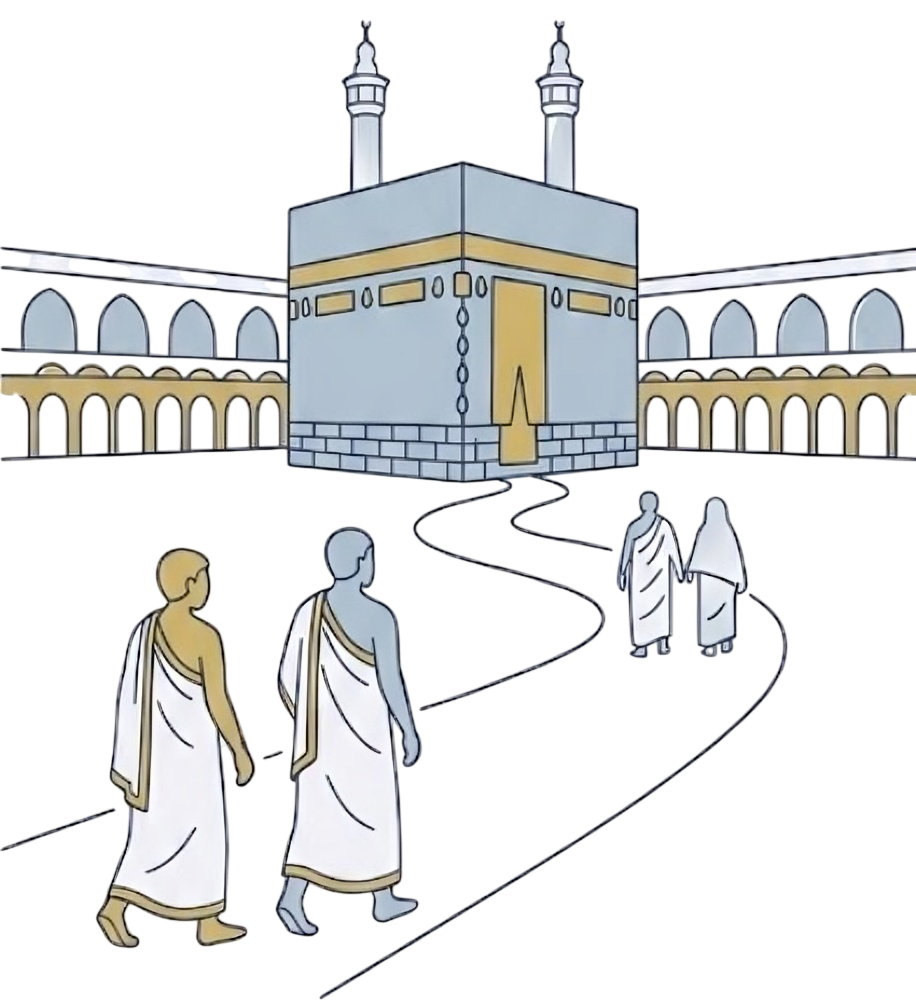
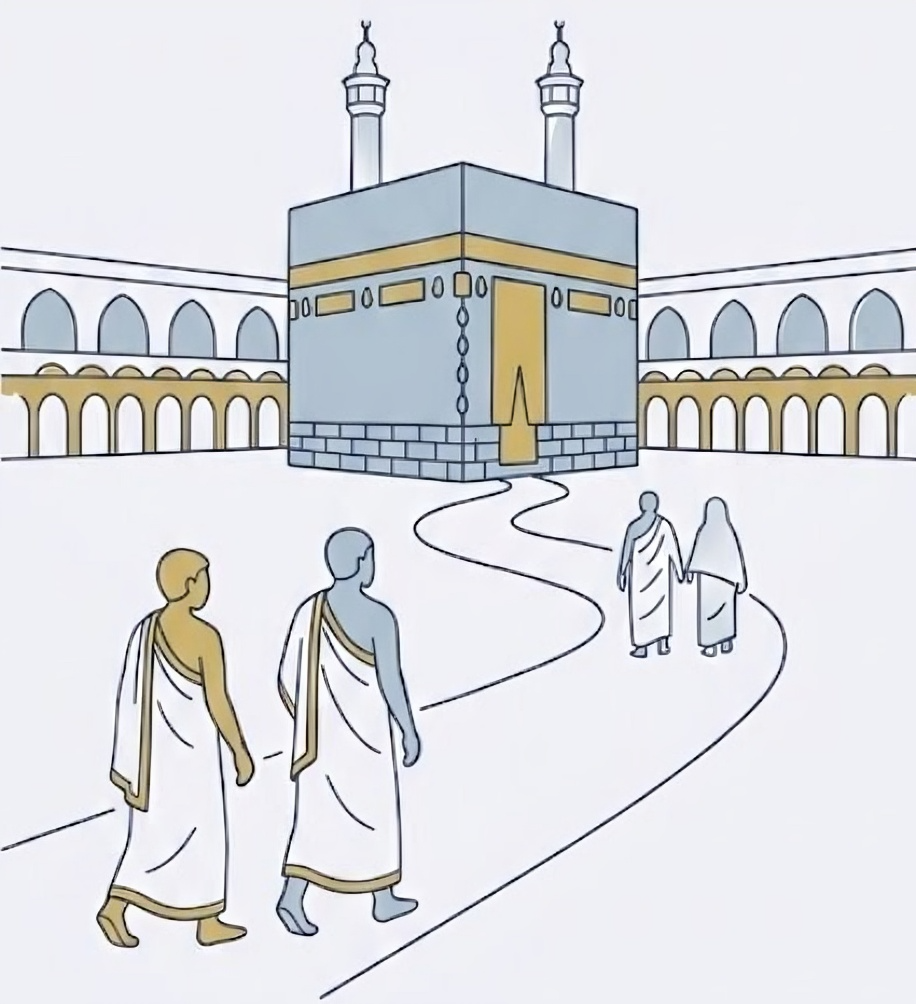
fix: resolve CallKit racing conditions by adding timing guards and deferring decline signals to prevent spurious call drops.

Changed region(s): [[0.3057, 0.3396, 0.3362, 0.3705]]

diff --git a/ios/Runner/AppDelegate.swift b/ios/Runner/AppDelegate.swift
@@ -12,8 +12,12 @@ import flutter_callkit_incoming
   PKPushRegistryDelegate, CallkitIncomingAppDelegate {
   private var voipRegistry: PKPushRegistry?
   /// CallKit can emit a spurious end/decline a few ms before accept on the same
-  /// call. Defer decline notification so a near-simultaneous accept cancels it.
+  /// call. Defer BOTH the HTTP decline POST and the Dart notification so a
+  /// near-simultaneous accept cancels them before they reach the server.
   private var pendingDeclineNotify: DispatchWorkItem?
+  /// Timestamp of the last onAccept call — used to suppress a racing onDecline
+  /// that arrives within 1 s of an accept (belt-and-suspenders guard).
+  private var lastAcceptAt: Date?
 
   override func application(
     _ application: UIApplication,
@@ -208,6 +212,7 @@ import flutter_callkit_incoming
   func onAccept(_ call: Call, _ action: CXAnswerCallAction) {
     pendingDeclineNotify?.cancel()
     pendingDeclineNotify = nil
+    lastAcceptAt = Date()
     CallSignalingBridge.postAnswer(for: call)
     CallKitAudioChannelHandler.notifyCallAccepted(call: call)
     action.fulfill()
@@ -215,10 +220,24 @@ import flutter_callkit_incoming
 
   func onDecline(_ call: Call, _ action: CXEndCallAction) {
     pendingDeclineNotify?.cancel()
-    // HTTP must fire immediately — a 450ms defer loses the POST when iOS suspends
-    // the VoIP-woken process after the user declines from a killed state.
-    CallSignalingBridge.postDecline(for: call, noAnswer: false)
-    let work = DispatchWorkItem {
+    // Guard: if onAccept fired within the last second, this is a race-condition
+    // decline from the banner dismissal — skip it entirely.
+    if let accepted = lastAcceptAt, Date().timeIntervalSince(accepted) < 1.0 {
+      NSLog("[AppDelegate] onDecline ignored — onAccept fired \(Date().timeIntervalSince(accepted))s ago")
+      action.fulfill()
+      return
+    }
+    // Defer BOTH the HTTP POST and the Dart notification inside the work item.
+    // onAccept cancels pendingDeclineNotify, which now also cancels the HTTP call,
+    // preventing a spurious decline from reaching the server on a banner-tap race.
+    let work = DispatchWorkItem { [weak self] in
+      guard let self else { return }
+      // Re-check in case onAccept fired while we were waiting.
+      if let accepted = self.lastAcceptAt, Date().timeIntervalSince(accepted) < 1.0 {
+        NSLog("[AppDelegate] Deferred decline cancelled — onAccept fired during grace")
+        return
+      }
+      CallSignalingBridge.postDecline(for: call, noAnswer: false)
       CallKitAudioChannelHandler.notifyCallDeclined(call: call, noAnswer: false)
     }
     pendingDeclineNotify = work

diff --git a/lib/features/calling/native_call_coordinator.dart b/lib/features/calling/native_call_coordinator.dart
@@ -293,9 +293,19 @@ abstract final class NativeCallCoordinator {
               AppLogger.i(
                 '📞 CallKit audio session active while ringing — accepting',
               );
-              unawaited(c.read(callProvider.notifier).acceptCall());
+              // Set the guard flags BEFORE awaiting acceptCall so that a
+              // near-simultaneous actionCallEnded (iOS always fires one when
+              // the CallKit ringing UI is dismissed on banner tap) is treated
+              // as spurious and does NOT signal a decline to the caller.
+              _lastCallKitAcceptAt = DateTime.now();
               _navigatingToCall = true;
+              await c.read(callProvider.notifier).acceptCall();
               _navigateToVoiceCallScreen();
+              // Dismiss the compact CallKit banner notification so it no longer
+              // floats over the in-app call screen.
+              unawaited(
+                CallKitService.instance.dismissIncomingCallNotification(),
+              );
             }
           } else {
             CallKitAudioBridge.onPluginAudioSessionDeactivated();